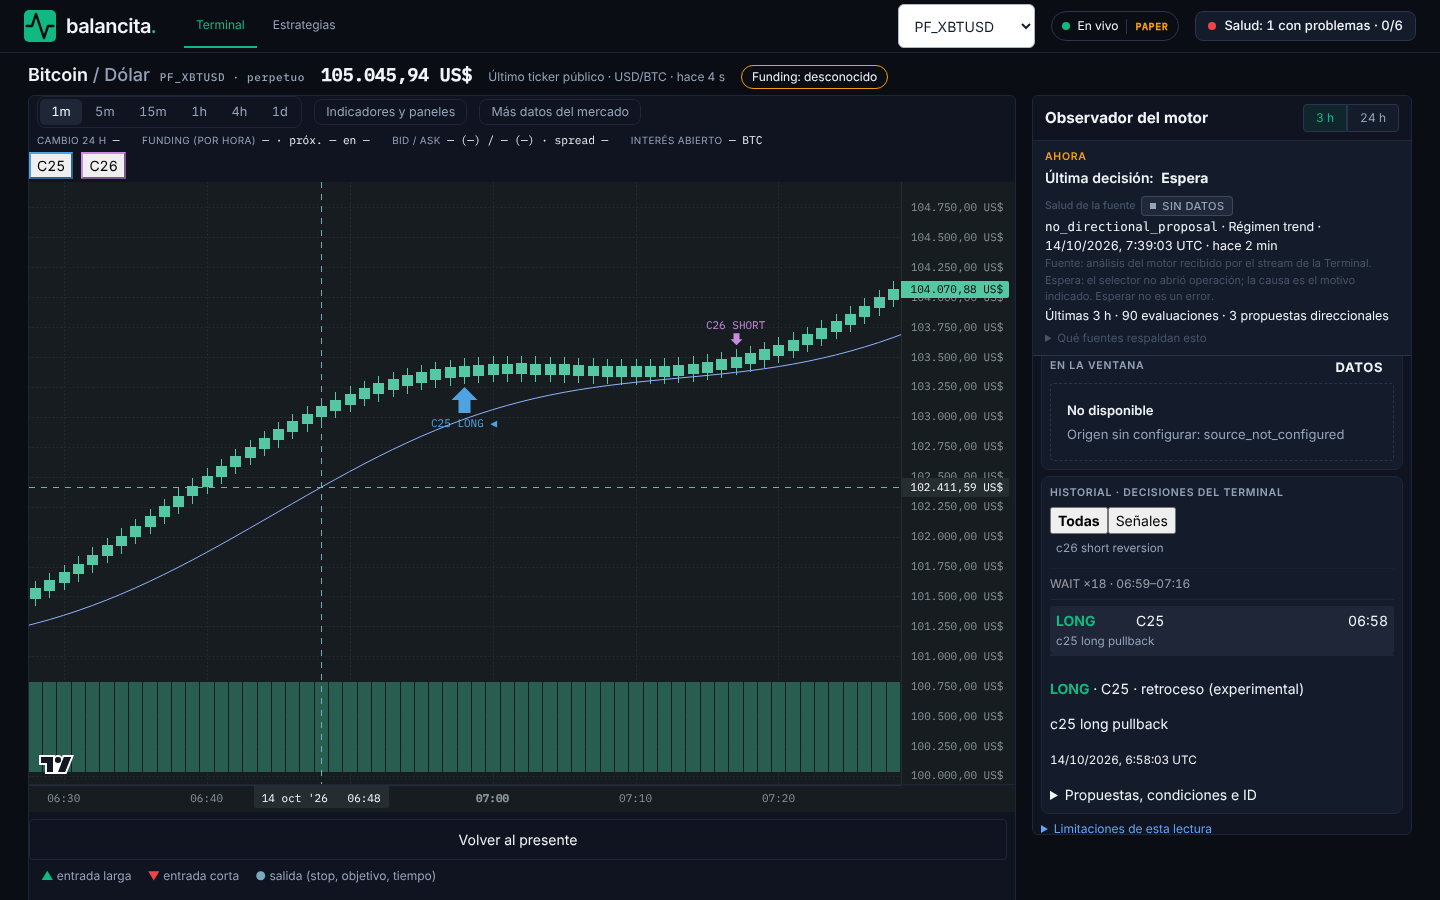
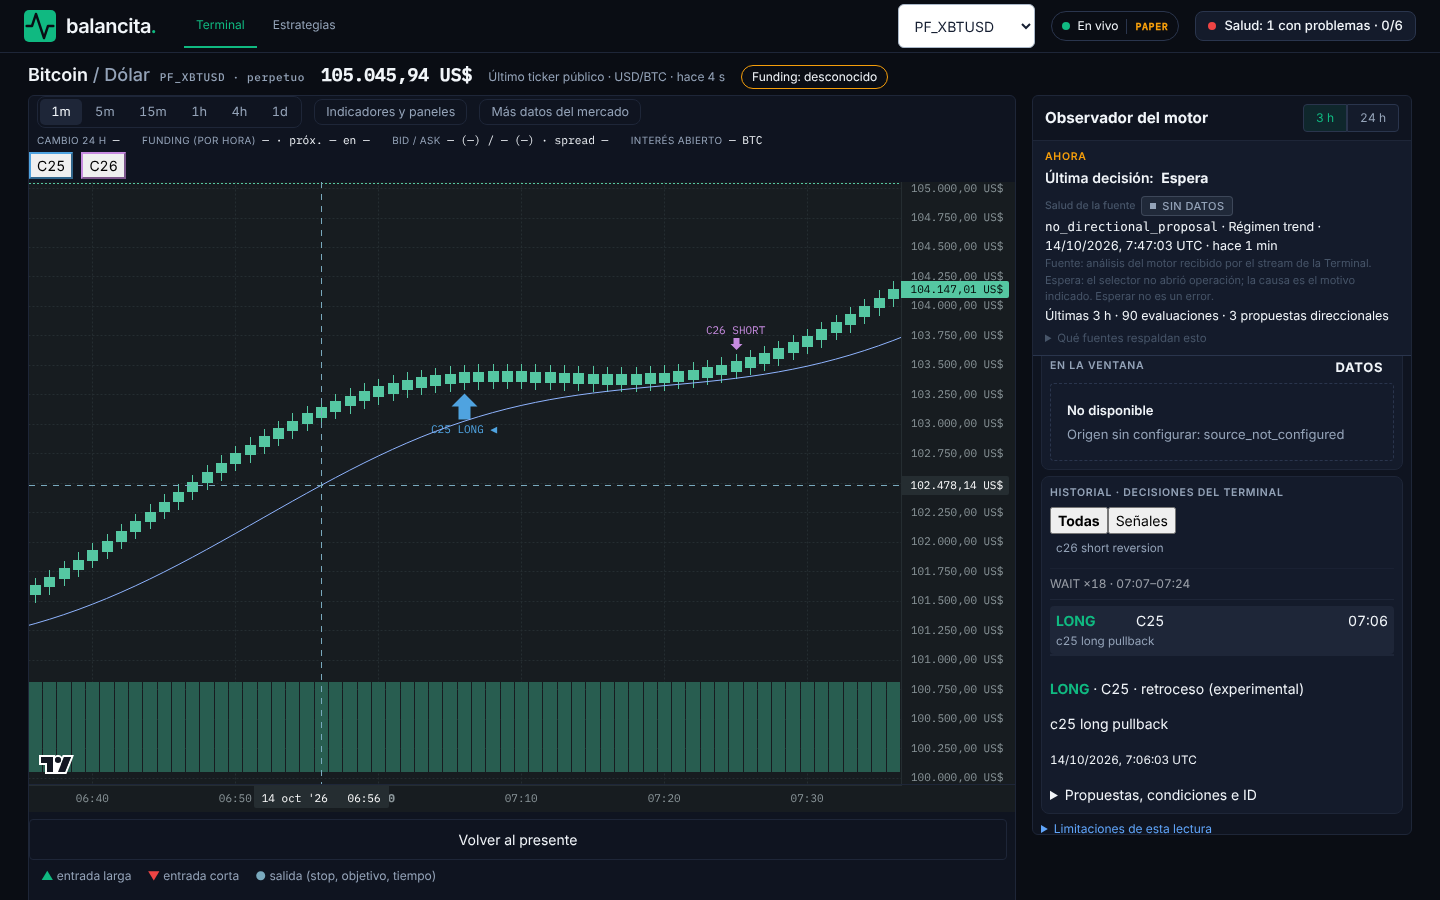
Pruebas: espera a los marcadores del gráfico y margen de antigüedad en la semilla

diff --git a/e2e/terminal-ahora-sync.pw.ts b/e2e/terminal-ahora-sync.pw.ts
@@ -110,7 +110,7 @@ test('AHORA shows the last real analysis of the stream, with its source', async 
   await expect(detail).toContainText('no_directional_proposal')
   await expect(detail).toContainText('Régimen trend')
   await expect(detail).toContainText(hmm(newest.decisionTimeMs))
-  await expect(detail).toContainText(/hace \d+ min/)
+  await expect(detail).toContainText(/hace \d+ (s|min)/)
   await expect(page.getByTestId('now-source')).toContainText(
     'análisis del motor recibido por el stream',
   )
@@ -298,7 +298,9 @@ test('chart controls on real data: timeframes, zoom, navigation, back to present
   await expect
     .poll(async () => Number(await xOf(last!.analysisId)))
     .toBeLessThan(lastX + 100)
-  expect(Math.abs((await spread()) - zoomedSpread)).toBeLessThan(4)
+  await expect
+    .poll(async () => Math.abs((await spread()) - zoomedSpread))
+    .toBeLessThan(6)
   expect(Number(await xOf(last!.analysisId))).toBeGreaterThan(box.width / 2)
   expect(Number(await xOf(last!.analysisId))).toBeLessThan(box.width)
 

diff --git a/e2e/support/seed-gateway-engine.ts b/e2e/support/seed-gateway-engine.ts
@@ -101,7 +101,9 @@ store.close()
 const closers: Array<() => void> = []
 const verdicts = new VerdictsDb(box.dir, closers)
 const account = new AccountDb(box.dir, closers)
-const latest = now - (now % MINUTE) - 3 * MINUTE
+// Two minutes back: the newest verdict is 1-2 min old, far from the 3 min
+// limit of «current» even when CI is slow.
+const latest = now - (now % MINUTE) - 2 * MINUTE
 const STOPPED_MINUTES: Record<string, number> = { PF_ZECUSD: 30 }
 const bucketAt = (i: number) => latest - i * MINUTE
 /** Planned non-WAIT verdicts by product (minutes back from the latest). */
